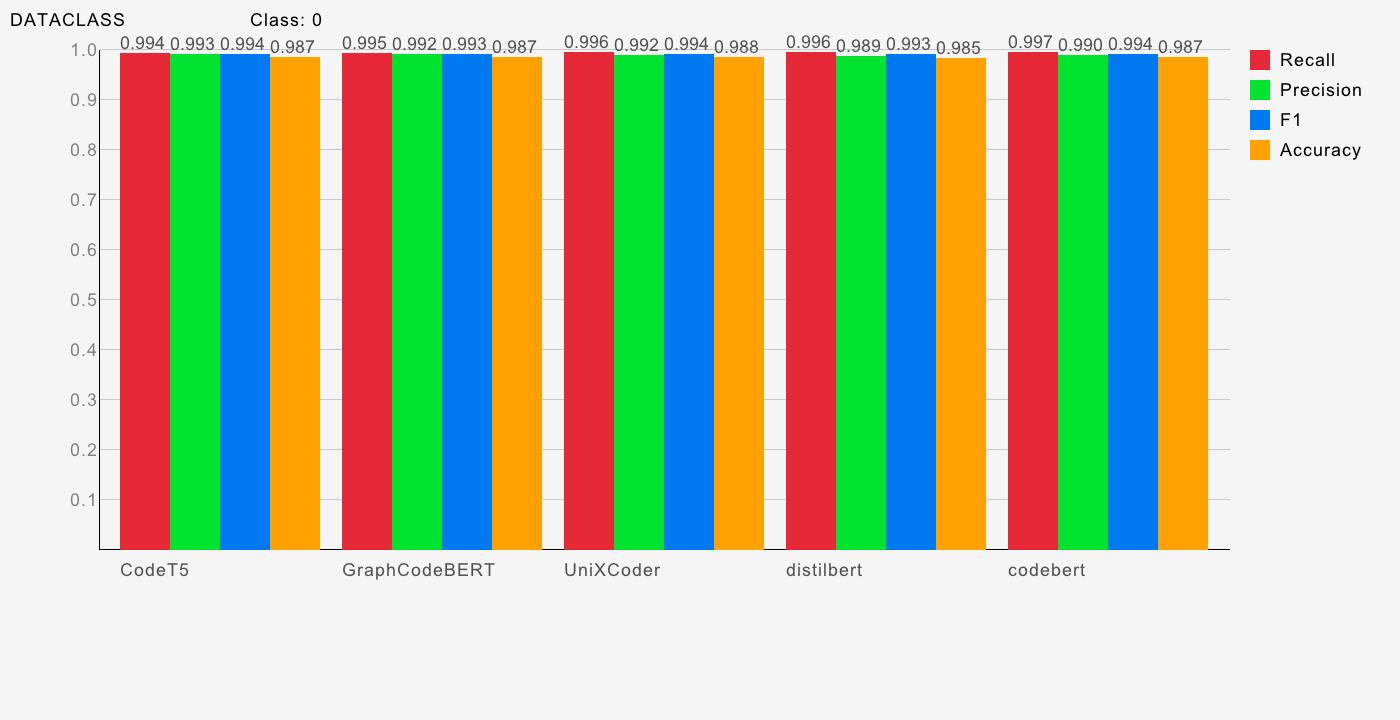
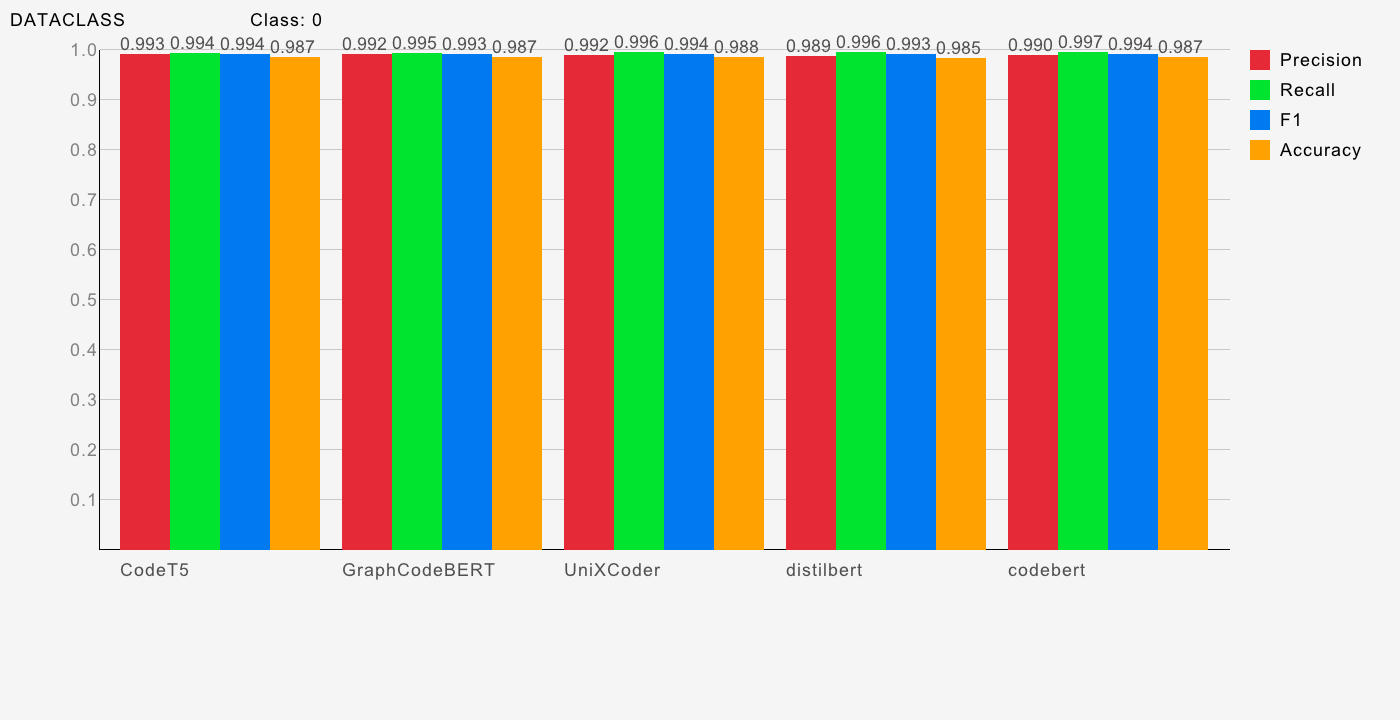
fix: dispaly the recall and precision

diff --git a/main.c b/main.c
@@ -155,7 +155,7 @@ static int zero_mode = 0;
 
 static void render_chart() {
     const Color metricColors[] = { RED, GREEN, BLUE, ORANGE }; // Colors for metrics
-    const char* metricLabels[] = { "Recall", "Precision", "F1", "Accuracy" };
+    const char* metricLabels[] = { "Precision", "Recall", "F1", "Accuracy" };
 
     InitWindow(SCREEN_WIDTH, SCREEN_HEIGHT, "Models Visualization");
     Font customFont = LoadFontEx("arial.ttf", 20, NULL, 0); // Custom font
@@ -219,8 +219,8 @@ static void render_chart() {
                         }
                     } else{
                         switch (j) {
-                            case 0: value = smell_report->precision0; break;
-                            case 1: value = smell_report->recall0; break;
+                            case 0: value = smell_report->recall0; break;
+                            case 1: value = smell_report->precision0; break;
                             case 2: value = smell_report->f10; break;
                             case 3: value = smell_report->accuracy0; break;
                         }
